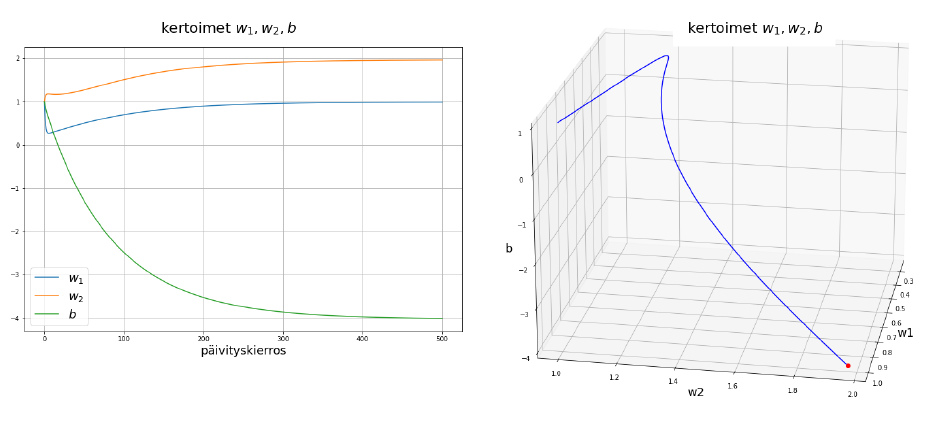
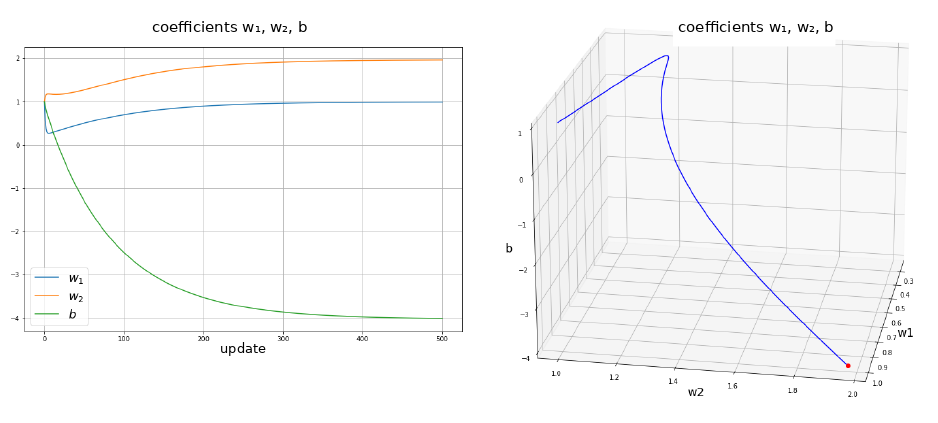
Relecture : énoncés plus clairs, figures en anglais, tableau des résultats précisé

Changed region(s): [[0.7111, 0.0307, 0.8966, 0.0922], [0.1546, 0.0307, 0.3401, 0.0922], [0.2164, 0.7991, 0.3092, 0.8605]]

diff --git a/README.md b/README.md
@@ -24,21 +24,23 @@ Quatre notebooks d'exercices de machine learning, de la régression linéaire co
 
 ## Résultats
 
-| Exercice | Jeu de données | Méthode | Résultat |
-|---|---|---|---|
-| 1.1 | Combined Cycle Power Plant | Régression linéaire | MAE = 3.63 MW |
-| 1.4 | 4 points fixes | Descente de gradient (points de Steiner) | Longueur totale = 8.345 |
-| 2.1 | Breast Cancer Wisconsin | Régression logistique | 562 / 569 bien classés |
-| 2.2 | Wine recognition | Régression logistique (3 classes) | 178 / 178 bien classés |
-| 3.1 | Sign Language MNIST (24 lettres) | CNN | accuracy = 98.6 % |
-| 3.2 | Sign Language Digits (10 chiffres) | CNN | accuracy = 99.3 % |
-| 3.3 | Flowers (5 classes) | CNN + data augmentation | accuracy = 93.8 % |
-| 3.4 | Flowers (5 classes) | Transfer learning VGG16 | accuracy = 92.3 % |
-| 4.1 | 4 spirales | Réseau dense, 1 couche cachée | accuracy = 98.8 % |
-| 4.2 | Apple Quality | Réseau dense (binaire) | accuracy = 89.7 % |
-| 4.3 | Dry Beans (7 classes) | Réseau dense | accuracy = 93.7 % |
-| 4.4 | Sign Language MNIST | Réseau dense | accuracy = 82.6 % |
-| 4.5 | Car Features and MSRP | Réseau dense (régression) | MAE = 2 611 $ |
+Numérotation : *notebook.exercice* (par exemple 3.2 = notebook 3, exercice 2). Les scores sont ceux de l'exécution enregistrée dans les notebooks.
+
+| Exercice | Jeu de données | Méthode | Résultat | Évalué sur |
+|---|---|---|---|---|
+| 1.1 | Combined Cycle Power Plant | Régression linéaire | MAE = 3.63 MW | toutes les données |
+| 1.4 | 4 points fixes | Descente de gradient (points de Steiner) | Longueur totale = 8.345 | – |
+| 2.1 | Breast Cancer Wisconsin | Régression logistique | 562 / 569 bien classés | toutes les données |
+| 2.2 | Wine recognition | Régression logistique (3 classes) | 178 / 178 bien classés | toutes les données |
+| 3.1 | Sign Language MNIST (24 lettres) | CNN | accuracy = 98.6 % | jeu de test |
+| 3.2 | Sign Language Digits (10 chiffres) | CNN | accuracy = 99.3 % | jeu de test |
+| 3.3 | Flowers (5 classes) | CNN + data augmentation | accuracy = 93.8 % | jeu de test |
+| 3.4 | Flowers (5 classes) | Transfer learning VGG16 | accuracy = 92.3 % | jeu de test |
+| 4.1 | 4 spirales | Réseau dense, 1 couche cachée | accuracy = 98.8 % | toutes les données |
+| 4.2 | Apple Quality | Réseau dense (binaire) | accuracy = 89.7 % | jeu de test |
+| 4.3 | Dry Beans (7 classes) | Réseau dense | accuracy = 93.7 % | jeu de test |
+| 4.4 | Sign Language MNIST | Réseau dense | accuracy = 82.6 % | jeu de test |
+| 4.5 | Car Features and MSRP | Réseau dense (régression) | MAE = 2 611 $ | jeu de test |
 
 ## Lancer les notebooks
 
@@ -66,7 +68,7 @@ Il suffit de cliquer sur le badge *Open in Colab* du notebook voulu. La premièr
 ├── 03_convolutional_neural_networks.ipynb
 ├── 04_neural_networks.ipynb
 ├── data/              # jeux de données utilisés par les notebooks
-├── images/            # figures des énoncés
+├── images/            # figures des énoncés et du README
 └── requirements.txt
 ```
 
